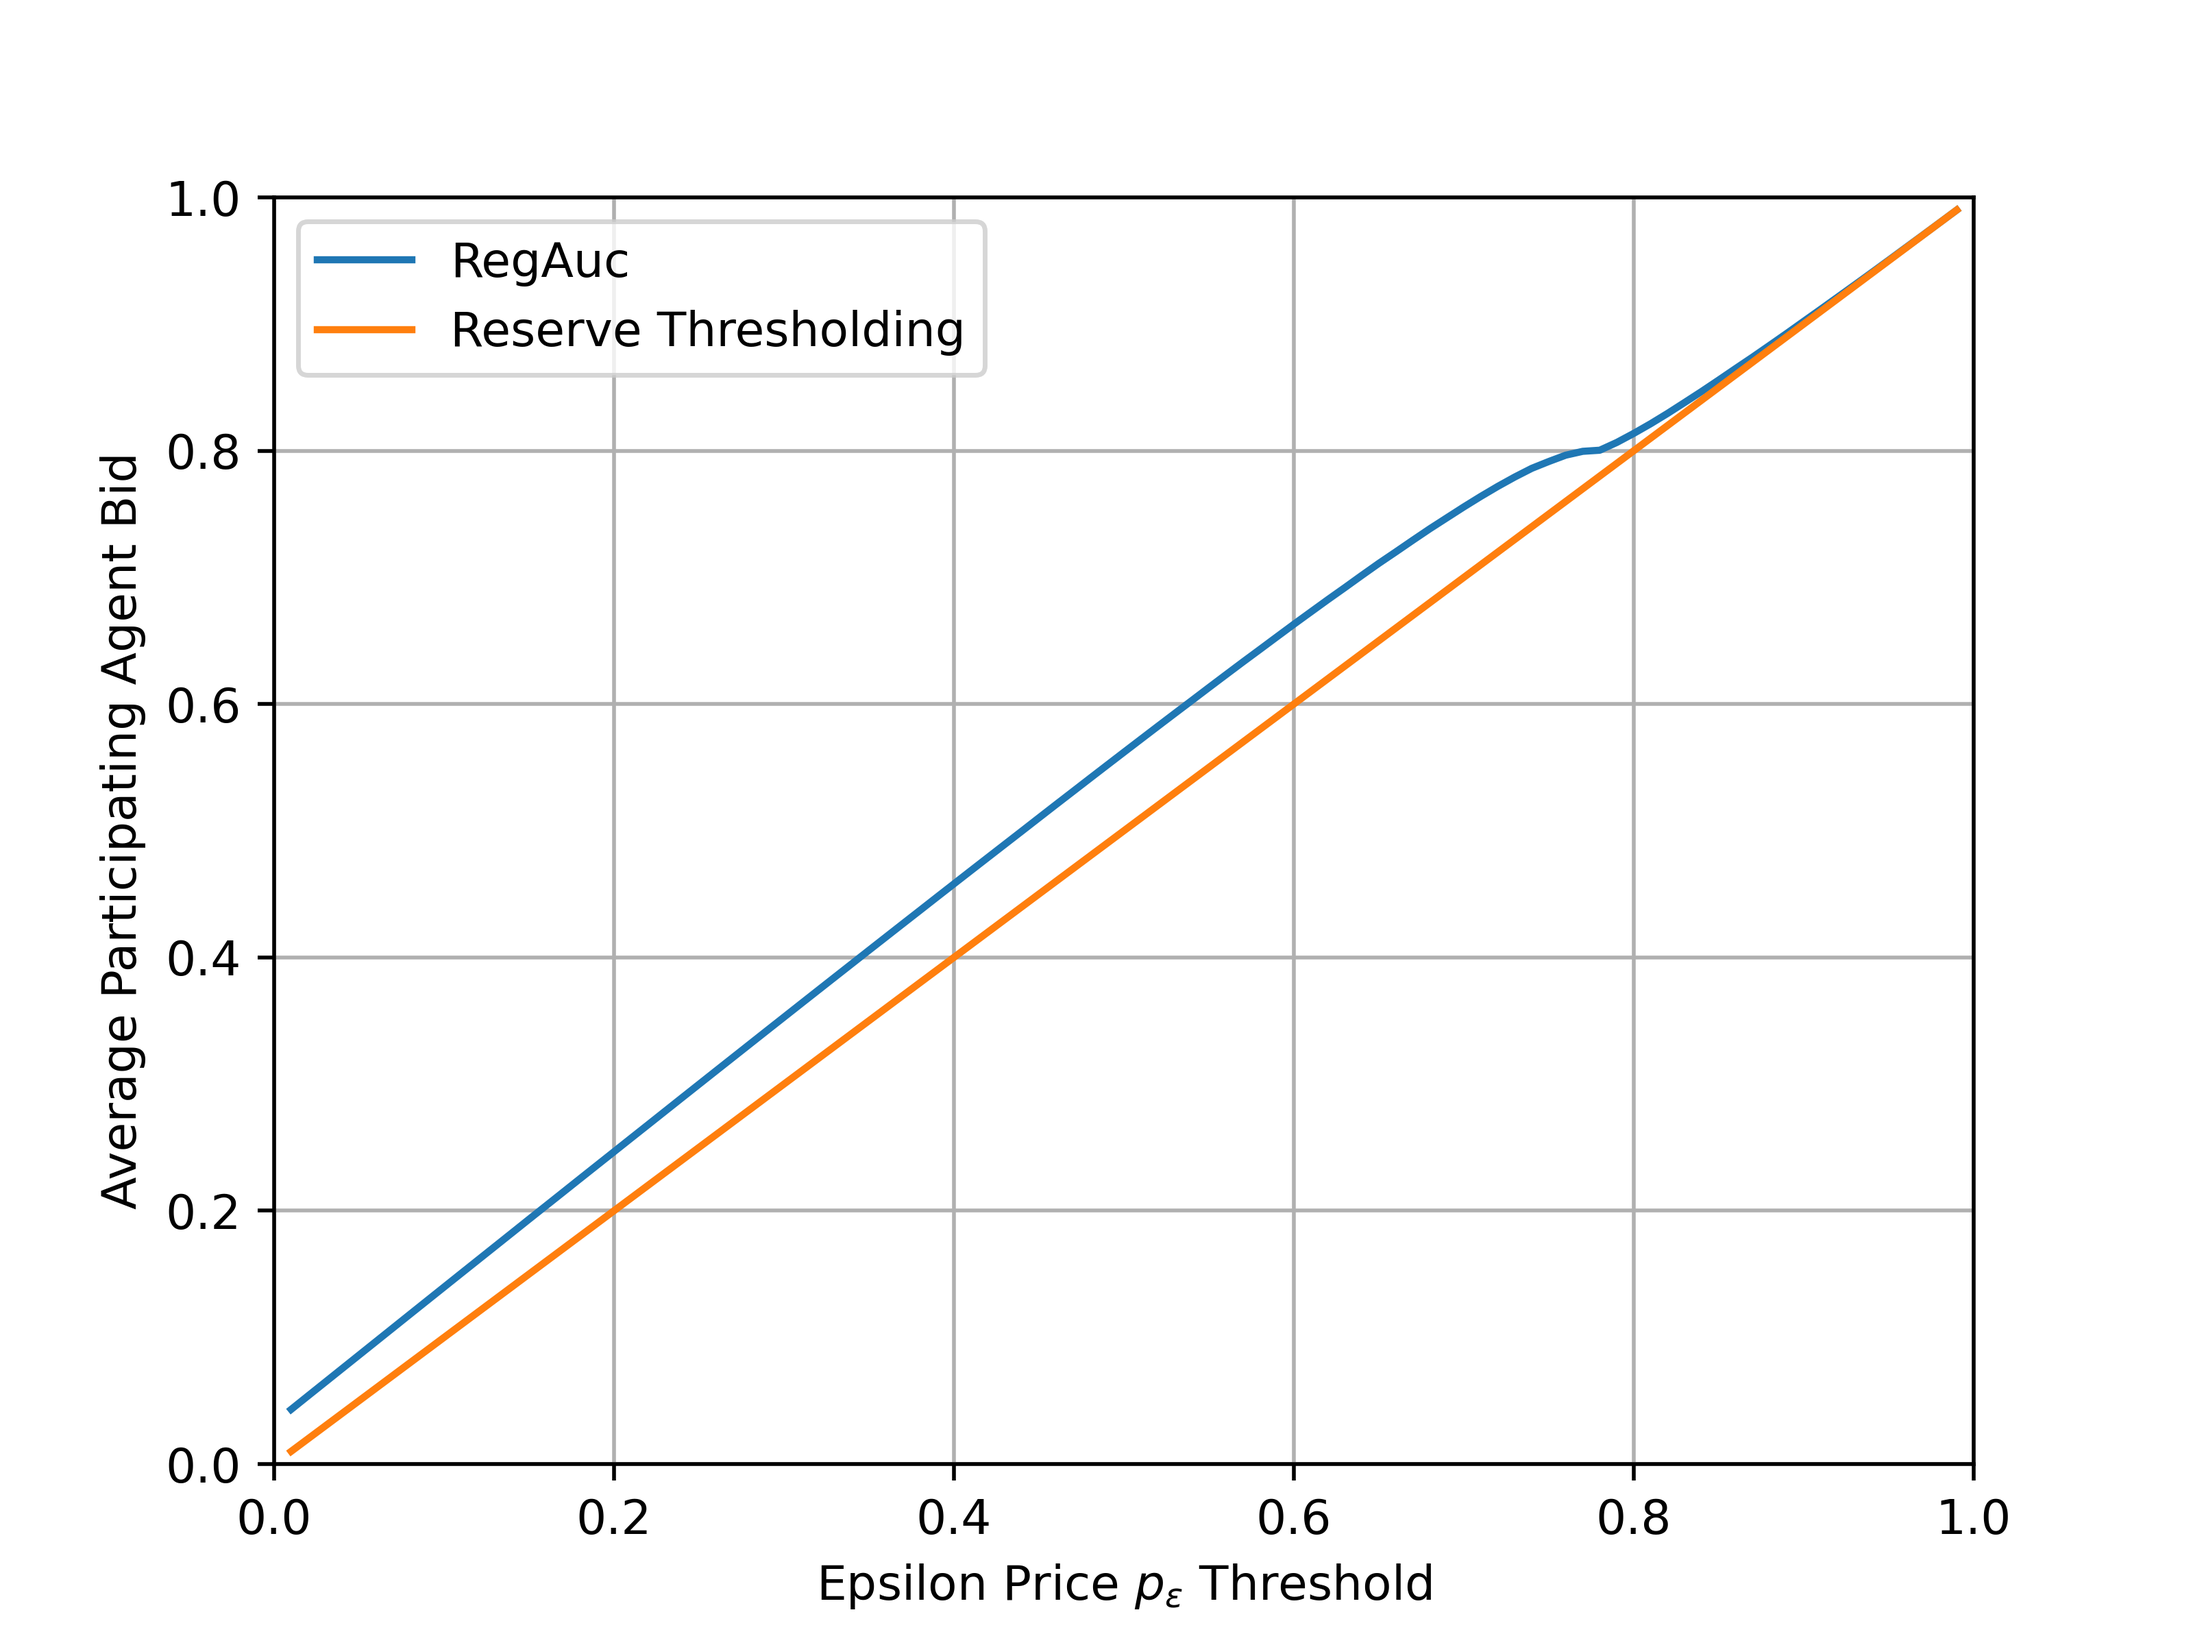
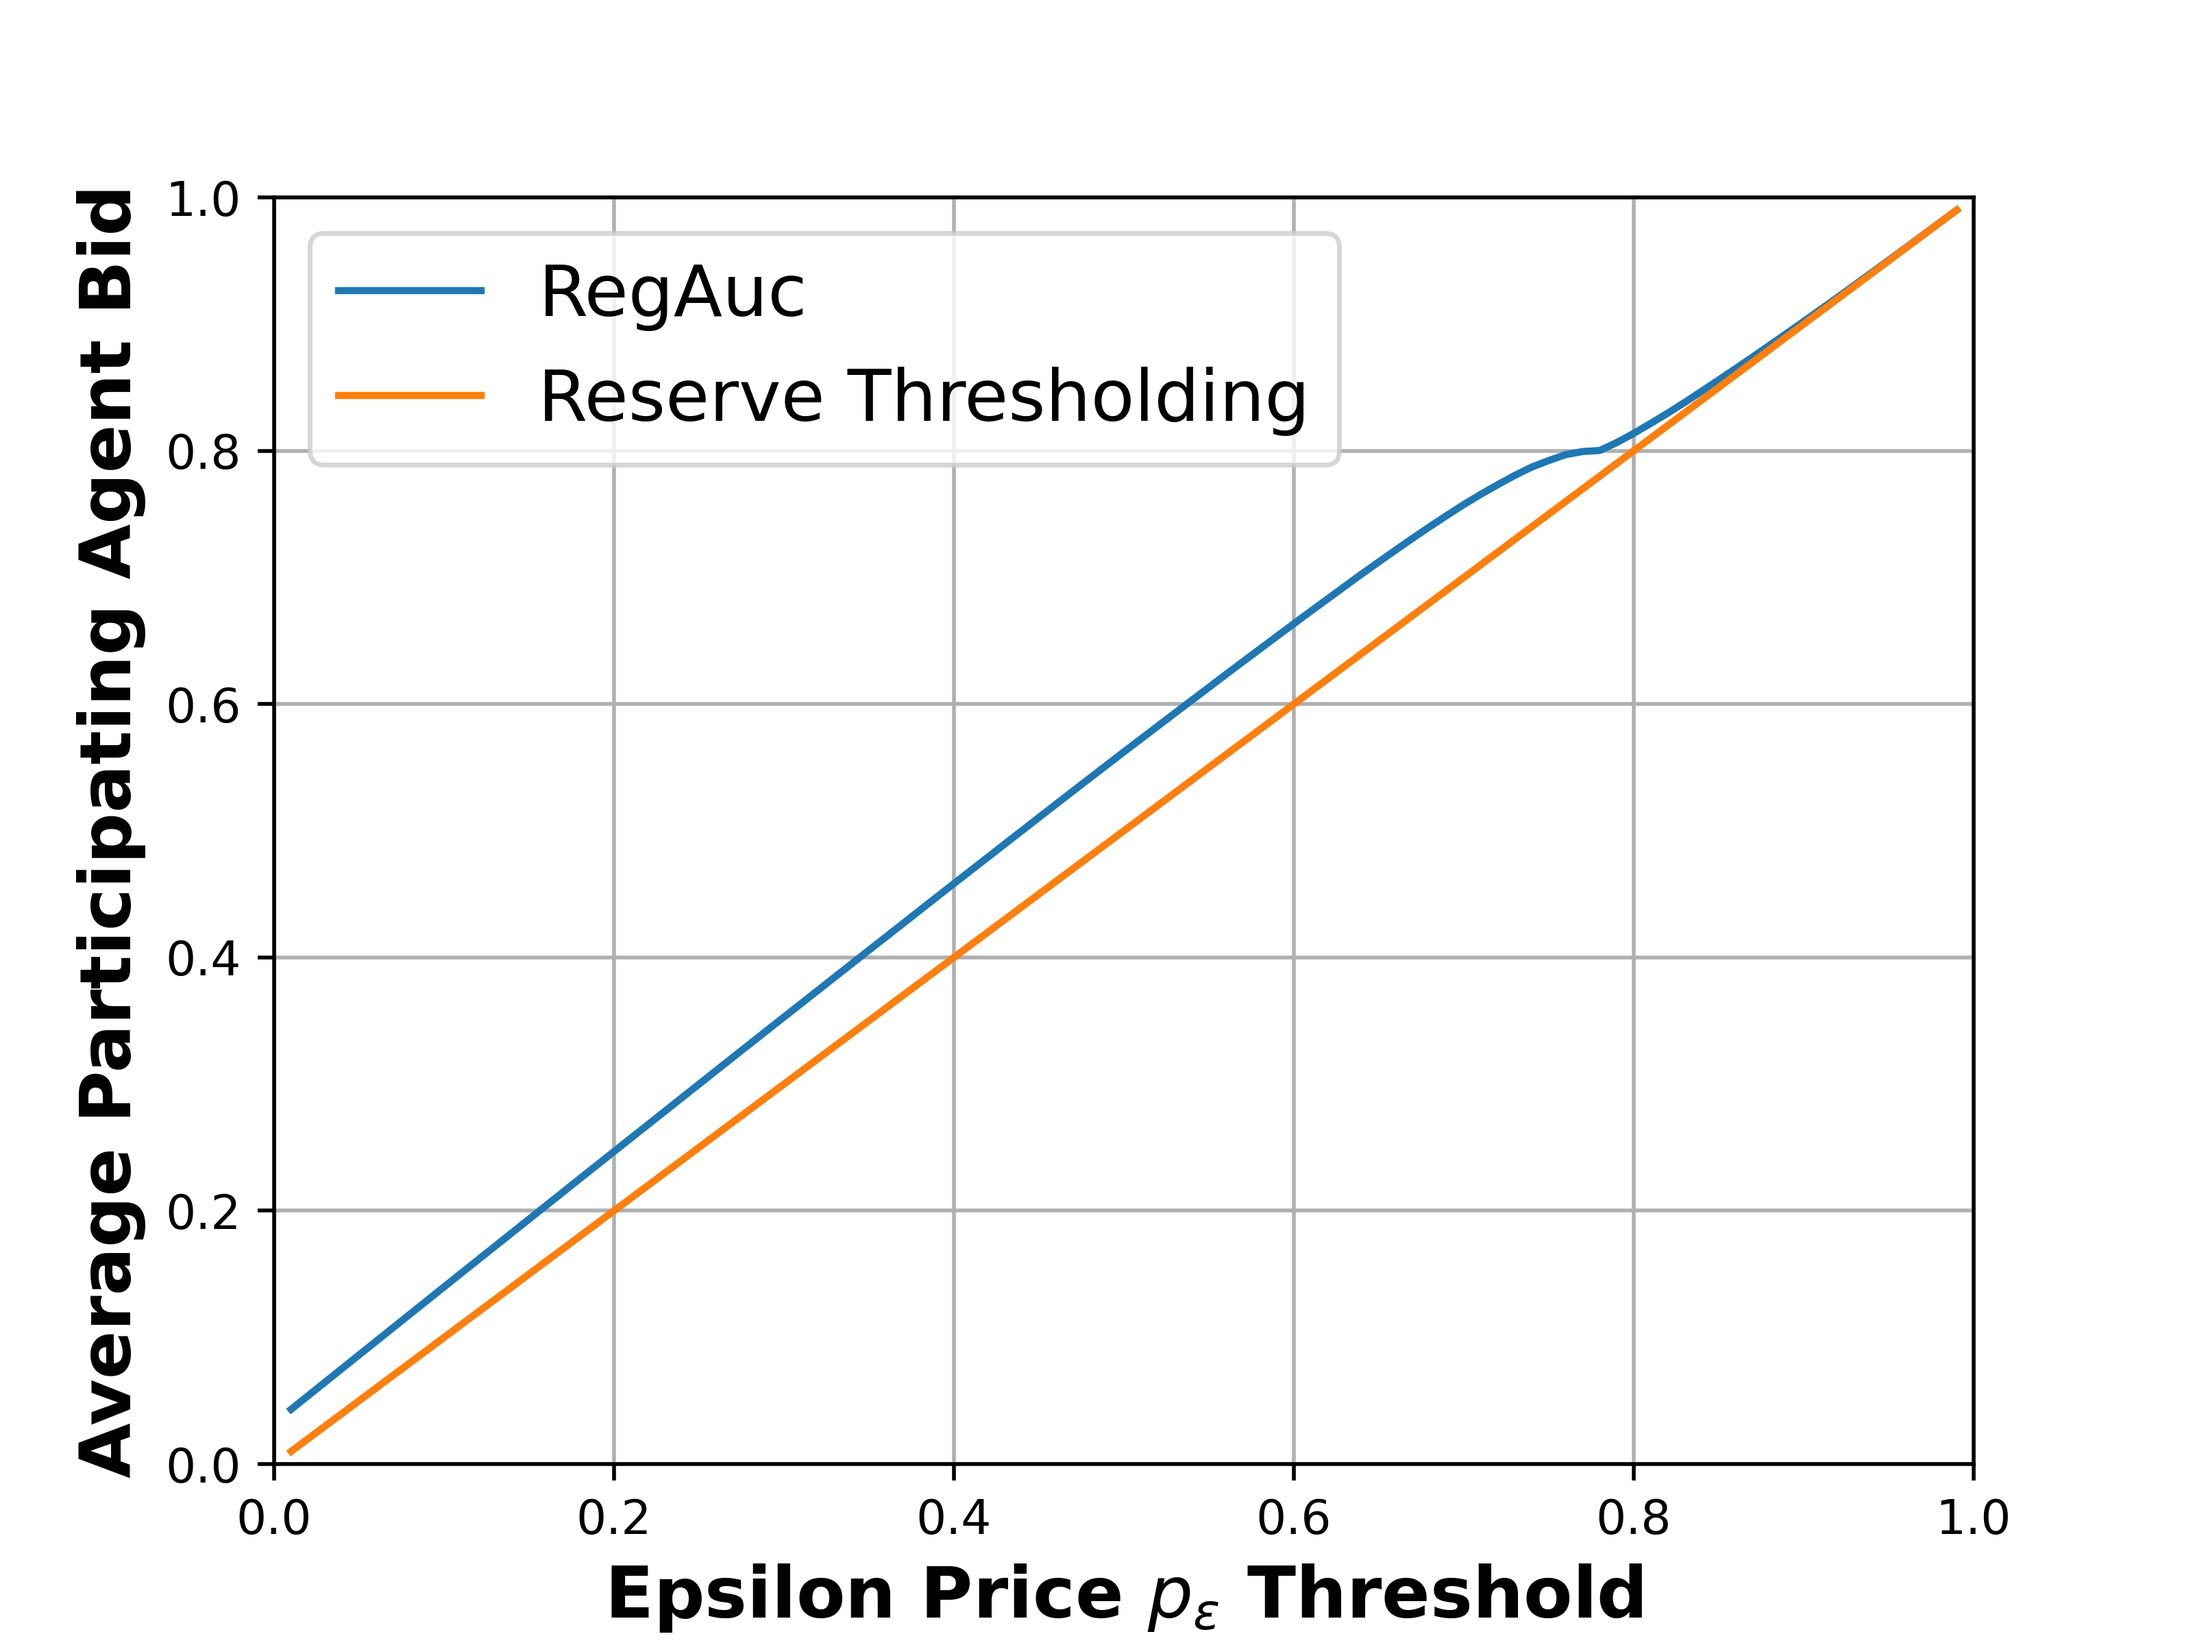
fix uniform distribution issue

diff --git a/simulations.py b/simulations.py
@@ -60,9 +60,9 @@ def regauc_sim(lambda_max, beta=False):
     plt.plot(epsilons, ra_rates, label='RegAuc')
     plt.plot(epsilons, st_rates, label='Reserve Thresholding')
     plt.grid()
-    plt.xlabel('Epsilon Price $p_\epsilon$ Threshold')
-    plt.ylabel('Agent Participation Rate (%)')
-    plt.legend(loc='best')
+    plt.xlabel('Epsilon Price $p_\epsilon$ Threshold', fontsize="15", fontweight='bold')
+    plt.ylabel('Agent Participation Rate (%)', fontsize="15", fontweight='bold')
+    plt.legend(loc='best', fontsize="15")
     plt.ylim([0, 100])
     plt.xlim([0, 1])
     filename = 'regauc_participation_rates_{}_{}.png'.format(lab, lambda_max)
@@ -73,9 +73,9 @@ def regauc_sim(lambda_max, beta=False):
     plt.plot(epsilons, ra_avgerage_bids, label='RegAuc')
     plt.plot(epsilons, st_average_bids, label='Reserve Thresholding')
     plt.grid()
-    plt.xlabel('Epsilon Price $p_\epsilon$ Threshold')
-    plt.ylabel('Average Participating Agent Bid')
-    plt.legend(loc='best')
+    plt.xlabel('Epsilon Price $p_\epsilon$ Threshold', fontsize="15", fontweight='bold')
+    plt.ylabel('Average Participating Agent Bid', fontsize="15", fontweight='bold')
+    plt.legend(loc='best', fontsize="15")
     plt.ylim([0, 1])
     plt.xlim([0, 1])
     filename = 'regauc_average_bid_{}_{}.png'.format(lab, lambda_max)

diff --git a/equilibrium.py b/equilibrium.py
@@ -71,10 +71,10 @@ def regauc_equilibrium(lambda_max, beta=False):
     plt.figure()
     plt.plot(x_vals, mean_varied_utility)
     plt.plot(x_vals[best_idx], mean_varied_utility[best_idx], 'r*', markersize=5, label='Maximizer')
-    plt.legend(loc='best')
+    plt.legend(loc='best', fontsize="15")
     plt.grid()
-    plt.xlabel('Percentage Added/Subtracted to Theoretically Optimal Bid (%)')
-    plt.ylabel('Average Agent Utility')
+    plt.xlabel('Percent Deviated from Optimal Bid (%)', fontsize="15", fontweight='bold')
+    plt.ylabel('Average Agent Utility', fontsize="15", fontweight='bold')
     plt.xlim([-50, 50])
 
     filename = 'regauc_equilibrium_deviation_pe{}_lam{}_{}.png'.format(p_epsilon, lambda_max, lab)
